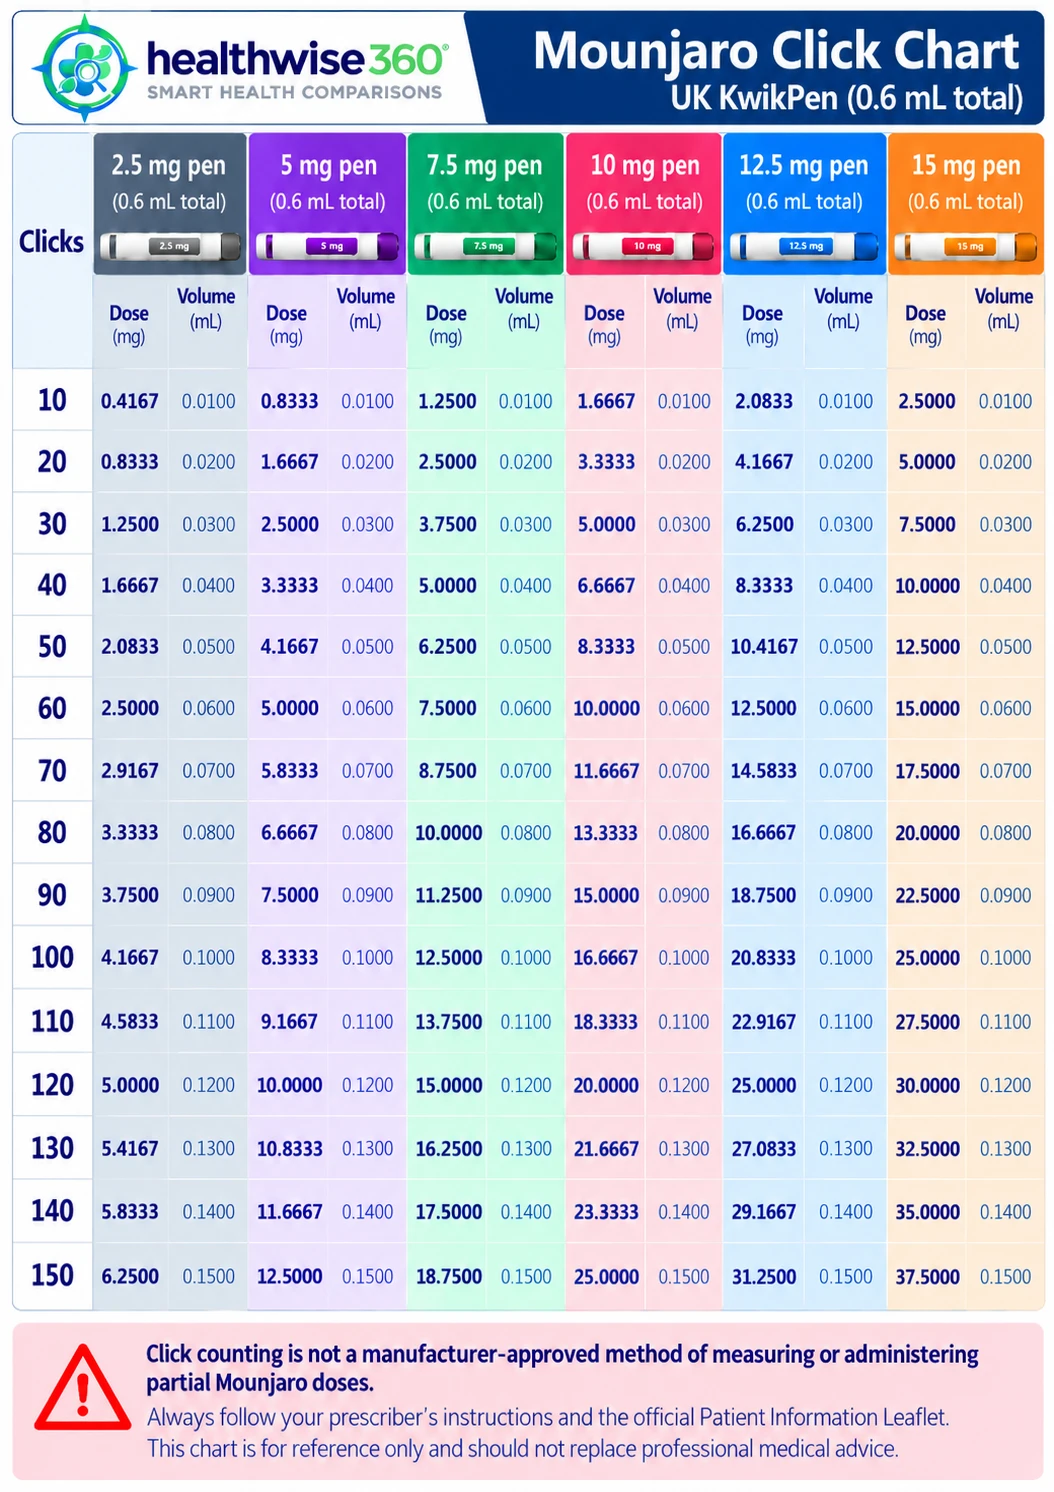
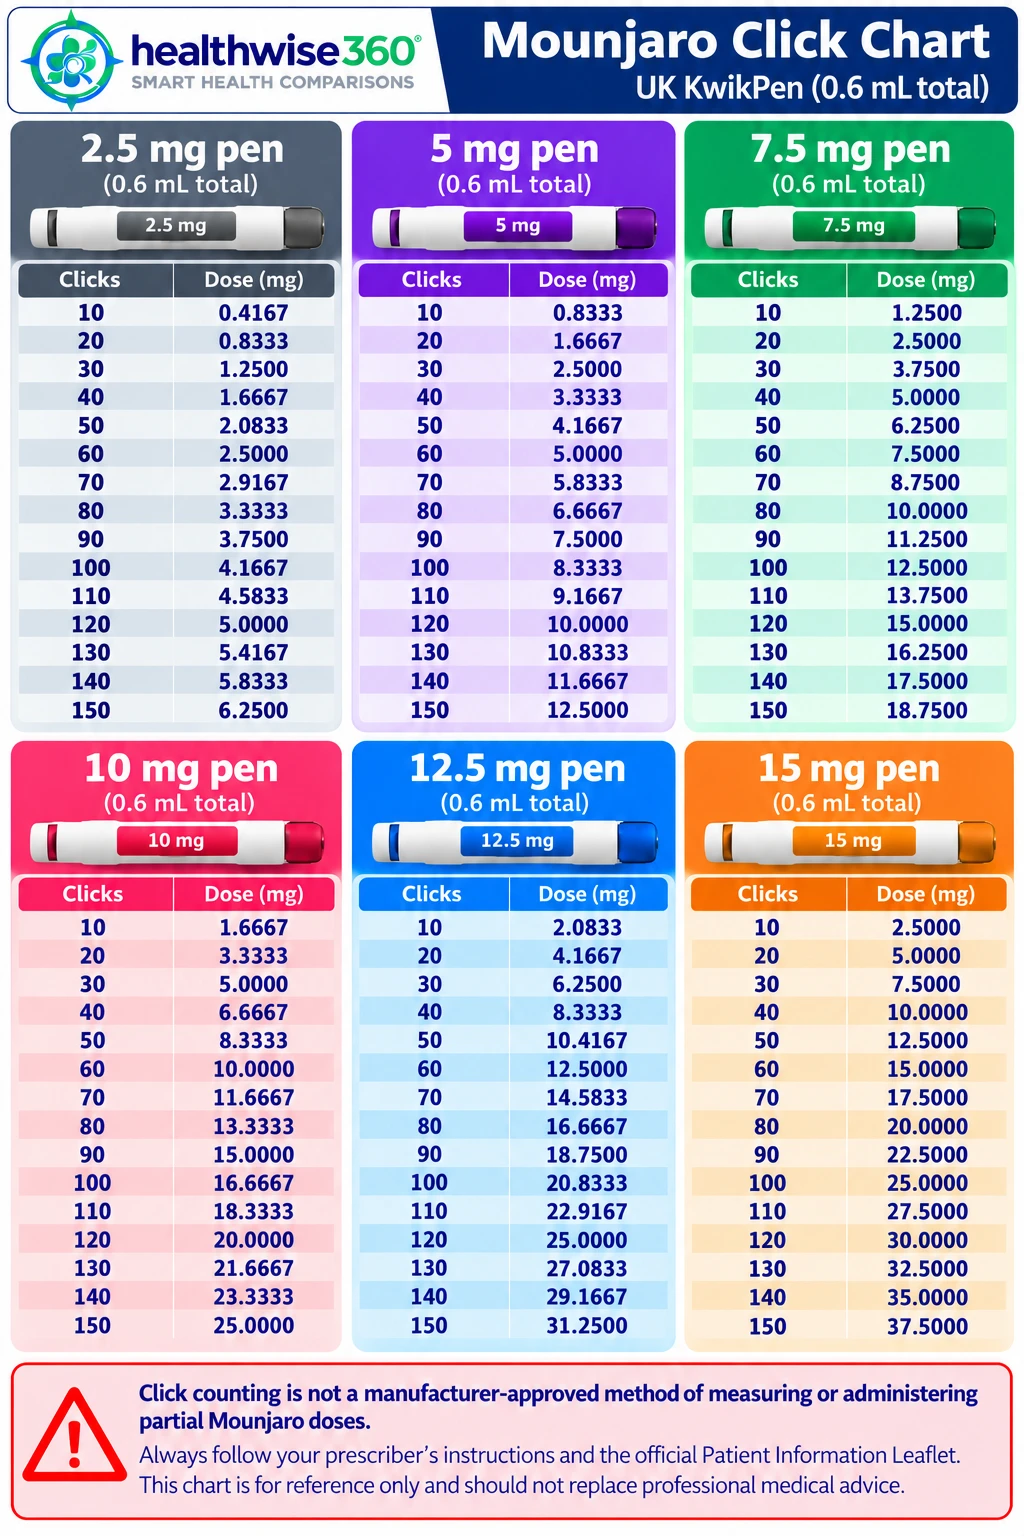
fix(tools): replace Mounjaro click chart with verified reference table — Task 1
Monday's audit flagged a possible 10x error in the previous static
chart image (0.6 mL pen volume vs a displayed 0.06 mL at 60 clicks).
Replace it with a recalculated reference chart (dose = (clicks/60) x
pen strength, 0.6 mL total fill volume per pen across all six
strengths), reviewed and approved by Harry and Jeff. Update the
Image component's width/height to match the new asset (1024x1536)
and adjust alt text since the new chart no longer has a per-click
volume column. Page URL, canonical, indexing, calculator
functionality, analytics events and provider links are unchanged.

diff --git a/src/app/tools/mounjaro-click-calculator/page.tsx b/src/app/tools/mounjaro-click-calculator/page.tsx
@@ -221,10 +221,10 @@ export default function MounjaroClickCalculatorPage() {
           <div className="relative mt-6 w-full overflow-hidden rounded-2xl border border-slate-200 bg-white shadow-lg ring-1 ring-slate-200/80">
             <Image
               src="/blog/mounjaro-click-chart-uk-reference.webp"
-              alt="Mounjaro Click Chart: UK KwikPen dose and volume reference table for 2.5mg, 5mg, 7.5mg, 10mg, 12.5mg and 15mg pens"
+              alt="Mounjaro Click Chart: UK KwikPen dose reference table (0.6 mL total pen volume) for 2.5mg, 5mg, 7.5mg, 10mg, 12.5mg and 15mg pens"
               title="Mounjaro Click Chart — UK KwikPen reference table"
-              width={1054}
-              height={1492}
+              width={1024}
+              height={1536}
               sizes="(max-width: 768px) 100vw, 768px"
               className="h-auto w-full"
             />
